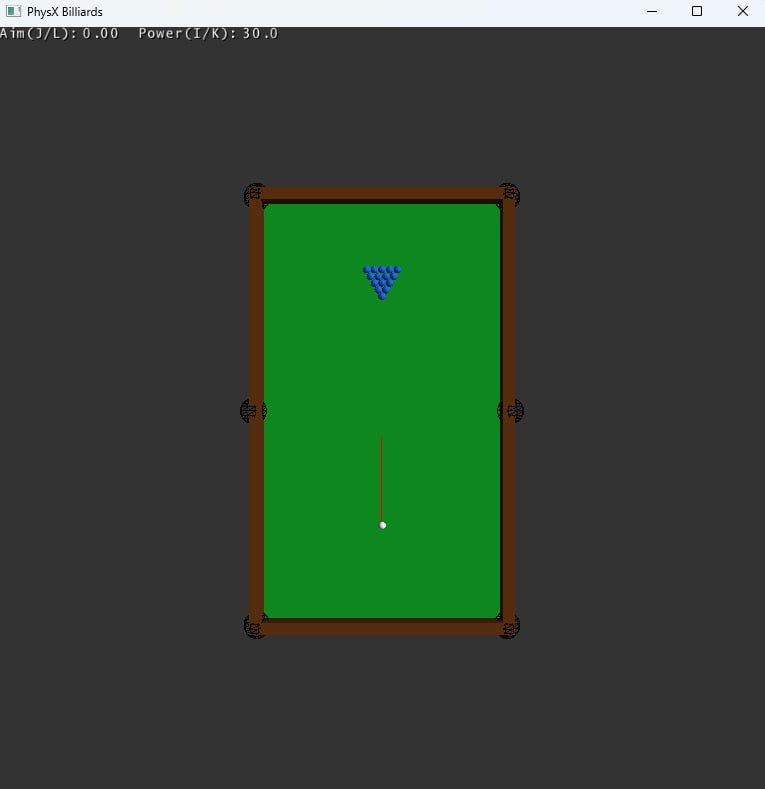
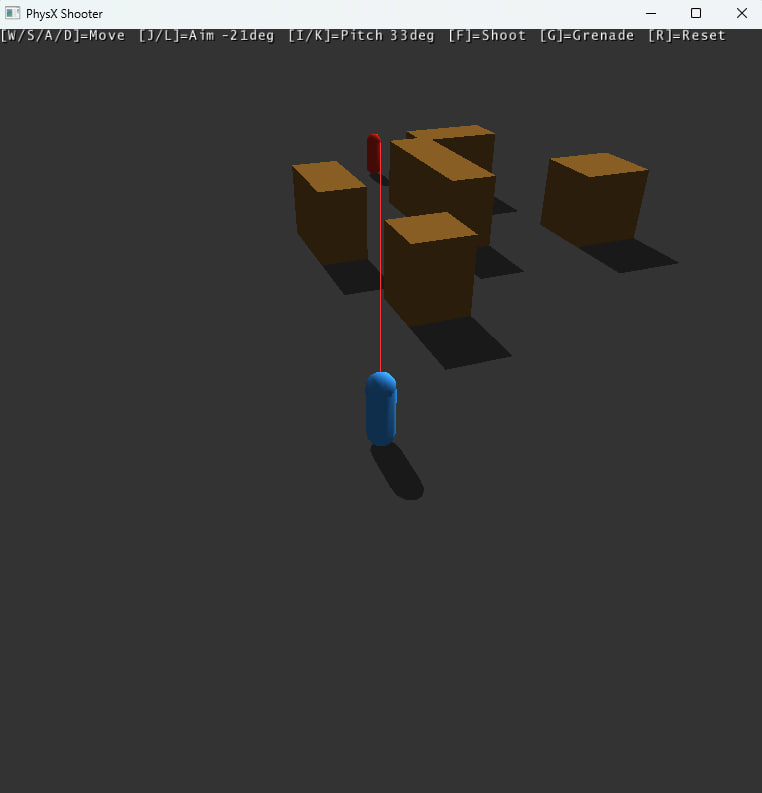
second commit

Changed region(s): [[0.3018, 0.1521, 0.8753, 0.8213], [0.0, 0.0, 0.9659, 0.0608], [0.9659, 0.0, 0.9961, 0.0304]]

diff --git a/Test1/Test1.cpp b/Test1/Test1.cpp
@@ -40,7 +40,7 @@ static PxPvdTransport* gTransport = nullptr;
 // --- Materials -------------------------------------------
 static PxMaterial* gMatGround = nullptr;
 static PxMaterial* gMatBox = nullptr;
-static PxMaterial* gMatActor = nullptr;   // shared for enemy + player capsule
+static PxMaterial* gMatActor = nullptr;
 static PxMaterial* gMatGrenade = nullptr;
 
 // --- Scene objects ---------------------------------------
@@ -105,9 +105,6 @@ static PxVec3 aimDirH()   // horizontal unit vector in aim direction
     return PxVec3(PxSin(gAimYaw), 0.0f, PxCos(gAimYaw)).getNormalized();
 }
 
-// Right vector for strafing.
-// Camera looks slightly downward so the screen-right vector is -X when
-// facing +Z. We negate the geometric right to match what the player sees.
 static PxVec3 strafeRight()
 {
     return PxVec3(-PxCos(gAimYaw), 0.0f, PxSin(gAimYaw)).getNormalized();
@@ -144,7 +141,7 @@ static PxRigidStatic* createStaticBox(PxVec3 pos, PxVec3 half)
 }
 
 // Capsule with vertical axis: PhysX default capsule is along X,
-// rotate 90 deg around Z so the long axis points along Y.
+// rotate 90 deg around Z.
 static PxRigidDynamic* createCapsule(PxVec3 center, bool kinematic)
 {
     PxShape* s = gPhysics->createShape(
@@ -199,7 +196,7 @@ static PxRigidDynamic* createGrenadeSphere(PxVec3 pos)
 static void shoot()
 {
     PxVec3 base = aimDirH();
-    PxVec3 rgt = -strafeRight();  // geometric right for spread offset
+    PxVec3 rgt = -strafeRight();
     PxVec3 up(0, 1, 0);
     PxVec3 dir = (base
         + rgt * (randF() * SPREAD_RAD)
@@ -258,7 +255,6 @@ static void explodeGrenade()
         return;
     }
 
-    // LOS: only check static geometry (walls / boxes).
     // If something static sits between blast center and enemy, damage is blocked.
     PxRaycastBuffer los;
     PxQueryFilterData fdS;

diff --git a/README.md b/README.md
@@ -1,33 +1,41 @@
 ### Описание
-Программа реализует упрощённую игру в бильярд на базе NVIDIA PhysX и Omniverse Snippets Renderer.
+Программа реализует симуляцию шутера на базе NVIDIA PhysX и Omniverse Snippets Renderer.
 
 На сцене создаются:
 
-- стол (плоскость) и 4 борта (статические боксы),
-- 16 шаров (динамические сферы): 15 шаров пирамидой у одного конца стола и биток у другого,
-- 6 “лунок” без реальных отверстий — они реализованы как trigger-зоны (сферы-триггеры), расположенные в углах и в центре длинных бортов.
+- бесконечная плоскость земли (статическая)
+- 5 статических боксов-препятствий, расставленных по полю
+- противник (динамическая вертикальная капсула, красная)
+- игрок (кинематическая вертикальная капсула, синяя) — перемещается через WASD
 
-Физика (движение, столкновения, отскоки) рассчитывается PhysX, отрисовка выполняется через Snippets.
+Физика (гравитация, столкновения, отскоки гранаты) рассчитывается PhysX, отрисовка выполняется через Snippets.
 
 ### Управление
-- J / L — изменить угол удара (поворот направления в плоскости стола).
-- I / K — увеличить/уменьшить силу удара.
-- Space — ударить биток: к битку прикладывается импульс в выбранном направлении (строго параллельно столу).
-- R — перезапуск: заново создаётся расстановка шаров (и сбрасывается состояние игры).
-- U / O — приближение/отдаление камеры (изменяет высоту/отъезд).
+- W / S — двигаться вперёд / назад.
+- A / D — стрейф влево / вправо.
+- J / L — повернуть прицел влево / вправо.
+- I / K — изменить угол возвышения броска гранаты.
+- F — выстрел: raycast от позиции глаз игрока с разбросом ±3°. При попадании в противника — вывод в консоль, применение импульса в направлении пули (капсула может упасть).
+- G — бросок гранаты: создаётся динамическая сфера, летит по параболе, отскакивает от препятствий, взрывается через 3 секунды.
+- R — вернуть противника на исходную позицию.
+- ESC — выход.
 
-### Логика “лунок” и удаление шаров
-Лунки реализованы через PxShape с флагом eTRIGGER_SHAPE. Они не участвуют в обычных столкновениях, но генерируют события, когда шар входит в область триггера.
-- В CustomEventCallback::onTrigger при первом касании триггера шар помечается как “забитый” (pocketed = true) и добавляется в очередь removedActors.
-- В renderCallback после шага симуляции (simulate/fetchResults) очередь обрабатывается: соответствующие шары удаляются из сцены (scene->removeActor) и освобождаются (release).
+### Выстрел и raycast
+Нажатие F вычисляет направление с небольшим случайным разбросом (±3°) и выполняет `PxScene::raycast`. Фильтр запроса включает статическую и динамическую геометрию. Если первый хит — капсула противника, фиксируется попадание и к противнику прикладывается импульс (`PxForceMode::eIMPULSE`). Визуальный след пули (жёлтая линия) виден 2.5 секунды.
 
-### Победа / поражение
-- Поражение: если “забит” биток (isCue == true), игра заканчивается (gameOver = true).
-- Победа: если все 15 шаров (кроме битка) забиты, игра заканчивается с победой (winGame = true).
-- После завершения игры можно нажать R для рестарта.
+### Граната и взрыв
+Граната — динамическая сфера массой ~0.4 кг с упругим материалом (restitution = 0.55). Запускается с начальной скоростью под заданным углом отклонения от горизонта, после чего PhysX симулирует параболическую траекторию и отскоки.
 
-### Камера и отрисовка прицела
-Камера фиксируется каждый кадр: вычисляется позиция камеры и направление взгляда на центр стола. Также рисуется “прицел” — красная линия направления удара от центра битка (Snippets::DrawLine).
+При взрыве проверяется:
+1. **Расстояние**: если противник дальше 6 м от центра взрыва — урон не наносится.
+2. **Прямая видимость (LOS)**: от центра взрыва в направлении противника кастуется луч только по статичной геометрии. Если луч попадает в ящик раньше, чем достигает противника, — противник считается за укрытием, урон не засчитывается.
+3. **Урон и импульс** пропорциональны близости к центру: чем ближе, тем больше (максимум 100 ед. урона и 3500 Н·с импульса).
+
+### Капсула игрока
+Игрок представлен кинематической капсулой (eKINEMATIC), у которой отключены флаги `eSIMULATION_SHAPE` и `eSCENE_QUERY_SHAPE` — она не участвует в физических контактах и не перехватывает raycast. Каждый кадр позиция обновляется через `setKinematicTarget`.
+
+### Камера
+Камера от третьего лица: фиксируется каждый кадр на 14 м позади и 11 м выше игрока, смотрит в точку над головой персонажа. При повороте прицела камера поворачивается вместе с ним. Красная линия прицела строится от позиции глаз игрока (`Snippets::DrawLine`).
 
 ### Пример работы
 ![Пример работы](./game.jpg)